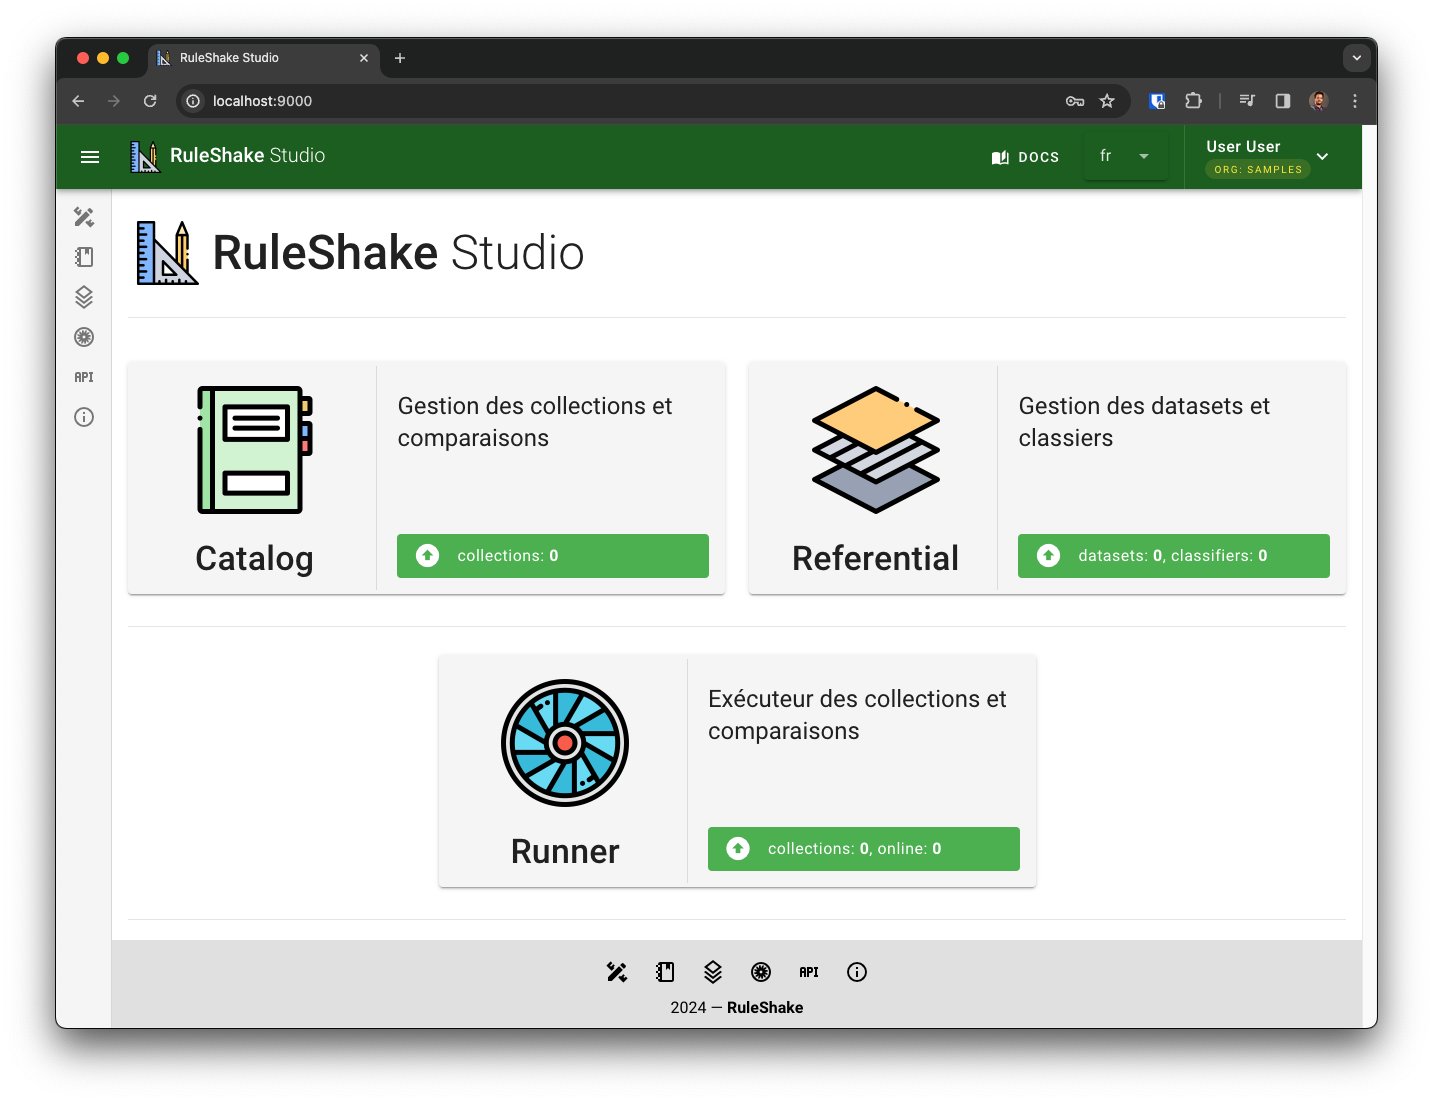
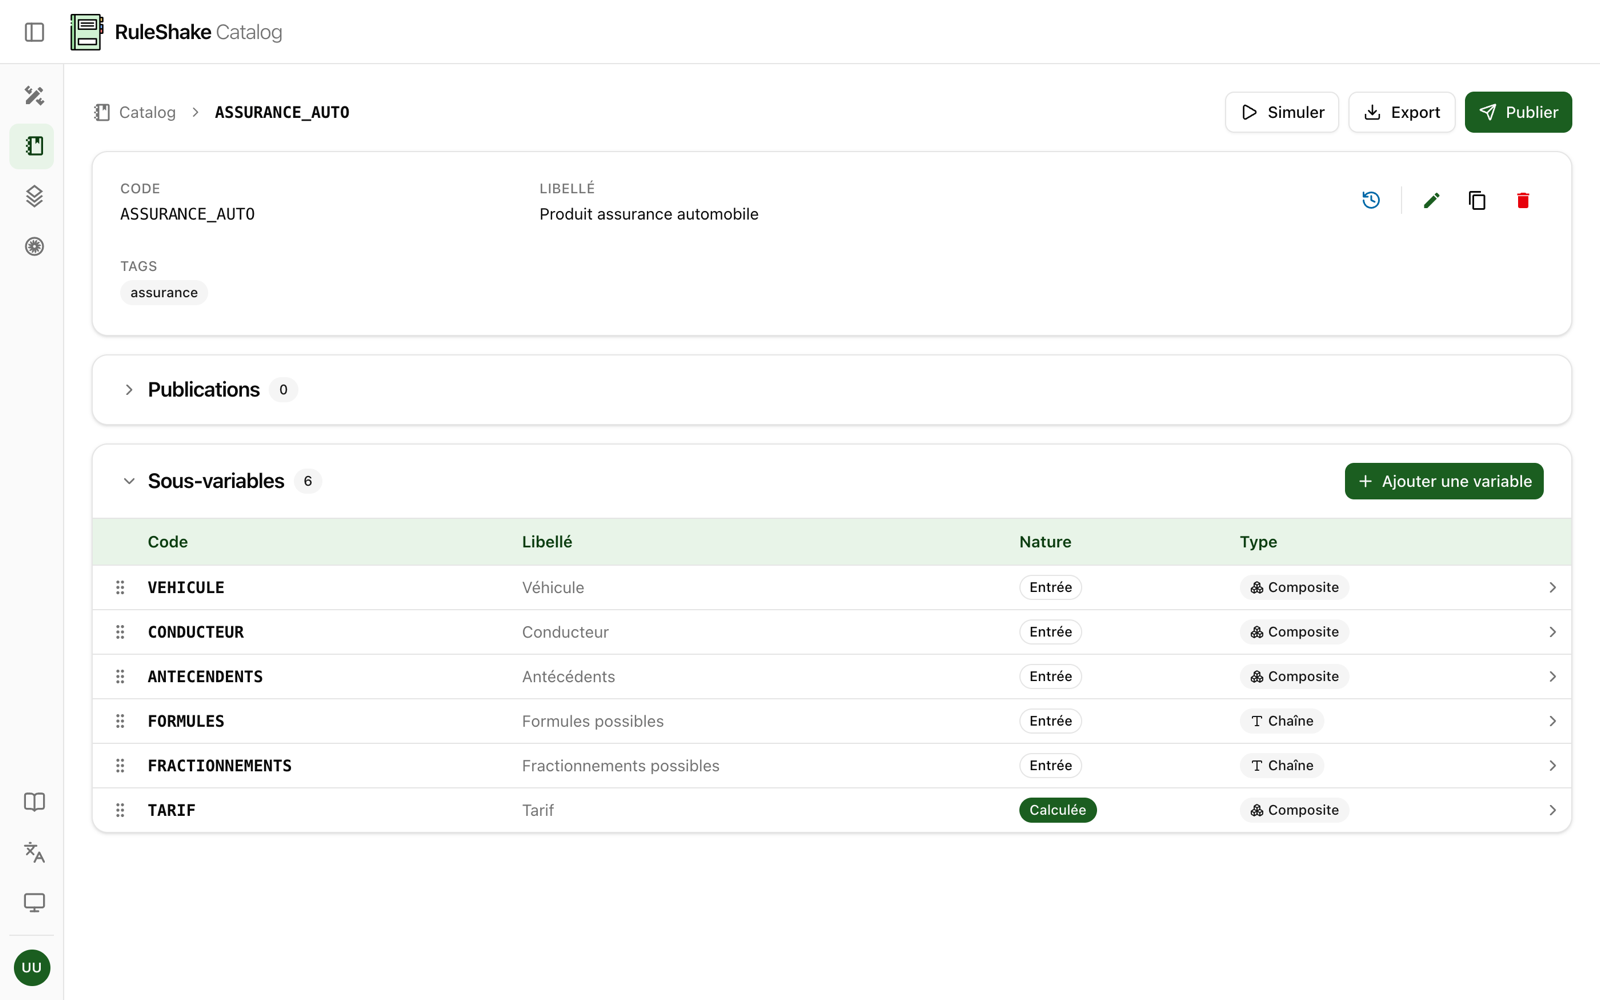
Server 0.1.0 and Studio 1.7.0, new architecture and screenshot, Keycloak reachable over http

diff --git a/README.md b/README.md
@@ -9,7 +9,7 @@ Define your rules simply and let RuleShake offer the best personalized package t
 </p>
 
 <p align="center">
-  <a href="https://ruleshake.com/docs/intro">Docs</a> - <a href="https://ruleshake.com/blog/">Blog</a> - <a href="https://demo.ruleshake.com">Demo</a>
+  <a href="https://ruleshake.com/intro">Docs</a> - <a href="https://ruleshake.com/blog/">Blog</a> - <a href="https://demo.ruleshake.com">Demo</a>
 </p>
 
 <p align="center">
@@ -18,13 +18,13 @@ configuration of variable collections (catalog), the dataset management (referen
 </p>
 
 <p align="center">
-  <a href="https://ruleshake.com/blog/architecture"><img src="./imgs/ruleshake-architecture.png" alt="ruleshake-architecture"></a>
+  <img src="./imgs/ruleshake-architecture.svg" alt="ruleshake-architecture">
 </p>
 
 # We host
 
 RuleShake SaaS offer is under development. 
-However, you can access effortlessly to the [demo environment](https://studio.ruleshake.com) 
+However, you can access effortlessly to the [demo environment](https://demo.ruleshake.com) 
 and discover what it is possible to do with RuleShake suite.
 
 # You host
@@ -64,8 +64,8 @@ At starting of Keycloak, a realm named `ruleshake-${KEYCLOAK_RULESHAKE_ORGANIZAT
 The default value of `KEYCLOAK_RULESHAKE_ORGANIZATION` is `sample`, you can change it in [.env](.env) file.
 
 The realm contains a client named `ruleshake-studio` used by Studio to authenticate users. 
-This client, via it's service account, can be used to retrieve a token and call RuleShake services REST API.
-You can create a dedicated client in keycloak to separate user operations from machine-to-machine calls
+This client, via its service account, can be used to retrieve a token and call the RuleShake Server REST API.
+You can create a dedicated client in Keycloak to separate user operations from machine-to-machine calls.
 
 Users `user` and `guest` are created. `user` can do CRUD actions when `guest` has only read-only access.
 
@@ -73,6 +73,17 @@ Users `user` and `guest` are created. `user` can do CRUD actions when `guest` ha
 
 RuleShake Server stores everything in PostgreSQL (one schema per module, created at startup).
 The database is exposed only inside the docker compose network; its data is kept in `./postgres/postgres-data`.
+
+### Versions
+
+The images used are set in [.env](.env): `RULESHAKE_SERVER_VERSION` (`ruleshake/server`) and
+`RULESHAKE_STUDIO_VERSION` (`ruleshake/studio`).
+
+### Actuator
+
+The health probes `http://localhost:9001/actuator/health/liveness` and `.../readiness` are public. The other actuator
+endpoints (`/actuator/prometheus`, `/actuator/info`...) use basic authentication with `RULESHAKE_ACTUATOR_USER` /
+`RULESHAKE_ACTUATOR_PASSWORD` (`admin`:`admin` by default).
 
 ## Start
 
@@ -95,12 +106,15 @@ Access to RuleShake Studio on `http://localhost:9000` and login with `user`:`use
 To use ruleshake services API, first get an access token from Keycloak:
 
 ```shell
-curl --location 'http://keycloak:9090/realms/ruleshake-samples/protocol/openid-connect/token' \
+curl --location 'http://keycloak:9090/realms/ruleshake-sample/protocol/openid-connect/token' \
 --header 'Content-Type: application/x-www-form-urlencoded' \
 --data-urlencode 'client_id=ruleshake-studio' \
 --data-urlencode 'client_secret=changeit' \
 --data-urlencode 'grant_type=client_credentials'
 ```
+
+> [!NOTE]
+> The realm is `ruleshake-${KEYCLOAK_RULESHAKE_ORGANIZATION}`: `ruleshake-sample` with the default [.env](.env).
 
 Then, call the desired API using the token you just retrieved. Example of evaluating a collection of variables in
 RuleShake Server:
